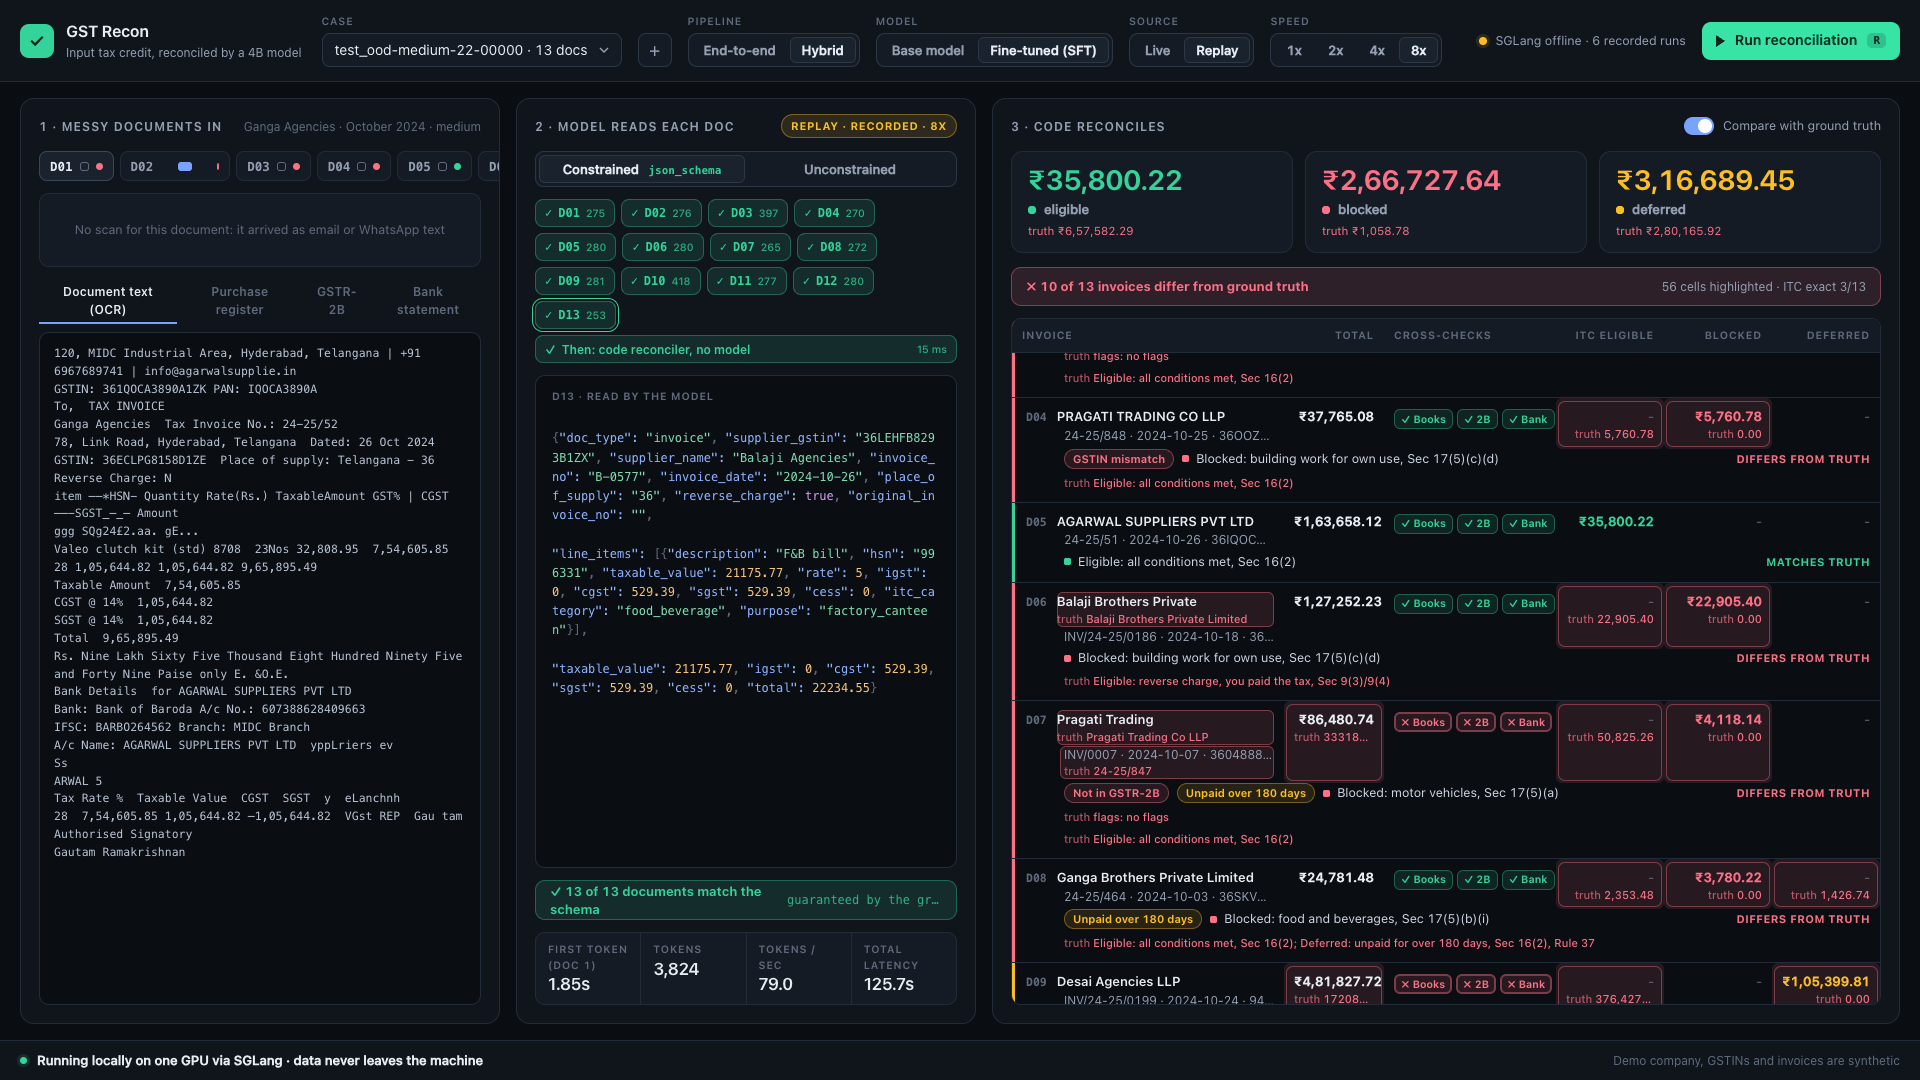
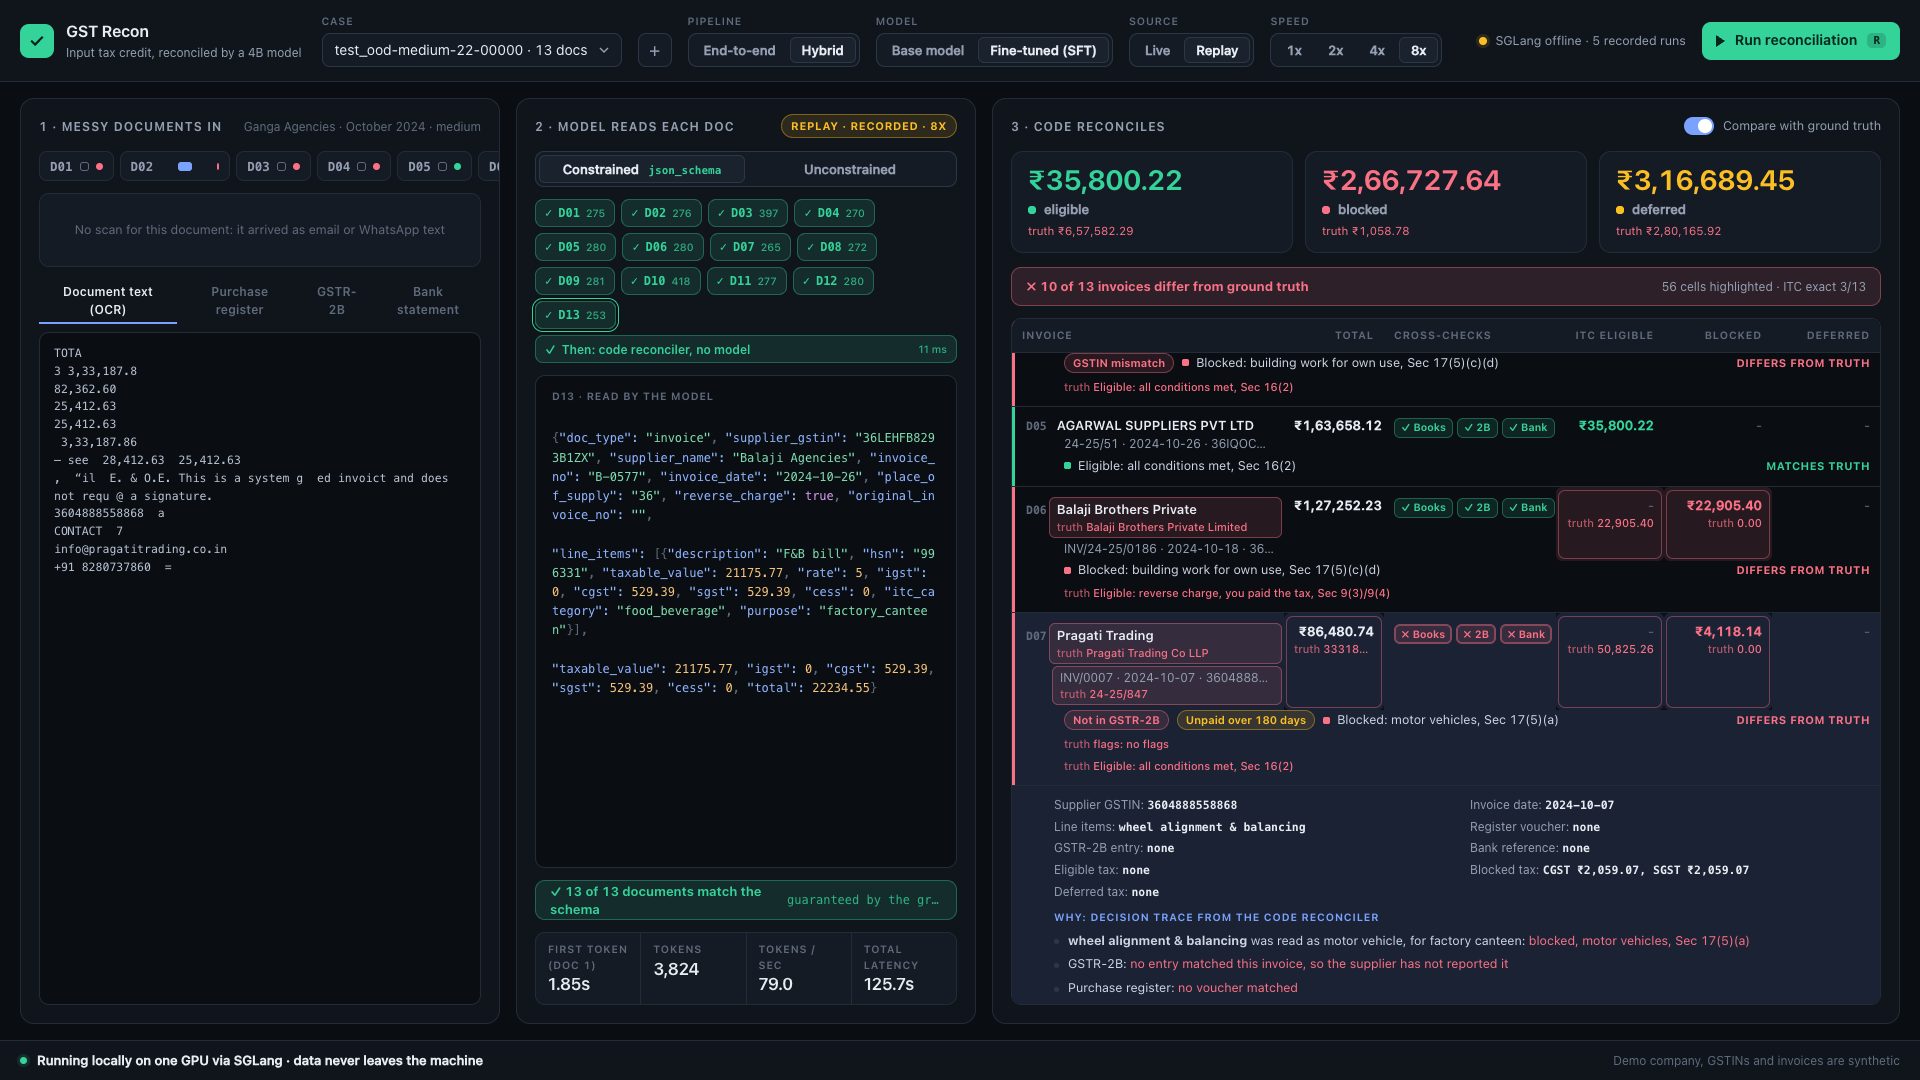
feat(demo): compact grammar for LoRA students in constrained mode; fix: padding around mismatch cells; drop strict-grammar sft recording

diff --git a/demo/static/style.css b/demo/static/style.css
@@ -185,6 +185,8 @@ table.recon { width: 100%; border-collapse: separate; border-spacing: 0; font-si
 .inv .id { font: 600 11.5px var(--mono); color: var(--dim); flex: none; }
 .inv > span:not(.id) { min-width: 0; flex: 1; }
 .inv .nm { display: block; font-weight: 600; white-space: nowrap; overflow: hidden; text-overflow: ellipsis; }
+.inv .bad-cell, .inv-sub.bad-cell { padding: 3px 8px; margin: 1px -8px 1px -8px; }
+.inv-sub.bad-cell { margin-left: 30px; padding-left: 8px; }
 .inv-sub { color: var(--muted); font-size: 12px; padding-left: 4px; margin-left: 38px; white-space: nowrap; overflow: hidden; text-overflow: ellipsis; margin-top: 1px; }
 .inv-sub.credit::before { content: "CREDIT NOTE"; margin-right: 8px; font-size: 9.5px; font-weight: 700; letter-spacing: .06em; color: var(--accent); }
 .pills { display: flex; gap: 4px; padding-top: 2px; }

diff --git a/demo/gst_demo/stream.py b/demo/gst_demo/stream.py
@@ -16,7 +16,7 @@ from typing import Any
 
 import httpx
 
-from gst_recon.eval.client import chat_url, json_schema_format
+from gst_recon.eval.client import chat_url, compact_json_schema, json_schema_format
 from gst_recon.eval.prompts import build_messages
 
 
@@ -27,7 +27,9 @@ def request_body(prompt: str, model: str, constrained: bool, max_tokens: int) ->
                             "max_tokens": max_tokens, "temperature": 0.0, "stream": True,
                             "stream_options": {"include_usage": True}}
     if constrained:
-        body["response_format"] = json_schema_format()
+        # LoRA students (`base:<adapter>`) were trained on compact targets (zero fields omitted): the strict grammar
+        # forces them to fill blocked/deferred with junk, so they get the grammar the eval harness's --compact-schema uses.
+        body["response_format"] = json_schema_format(compact_json_schema() if ":" in model else None)
     return body
 
 

diff --git a/demo/tests/test_demo.py b/demo/tests/test_demo.py
@@ -77,3 +77,16 @@ def test_replay_streams_recording_and_view_matches(client, tmp_path):
     assert "".join(e["t"] for e in ev if e["type"] == "tok") == text
     assert client.get("/api/health").json()["live"] is False
     assert client.post("/api/run", json={"case_id": CASE.name, "mode": "replay"}).status_code == 200
+
+
+def test_adapter_models_get_the_compact_grammar_and_base_the_strict_one():
+    from gst_demo.stream import request_body
+    from gst_recon.rewards import compact
+
+    def n_required(model):
+        return json.dumps(request_body("p", model, True, 10)["response_format"]).count('"required"')
+
+    assert n_required("base:sft") < n_required("base")
+    # a compact output (zero fields omitted) still renders and validates after expansion
+    v = build_view(json.dumps(compact(TARGET)), TARGET, final=True)
+    assert v["validity"]["schema"] is True and v["diff"]["wrong_cells"] == 0
